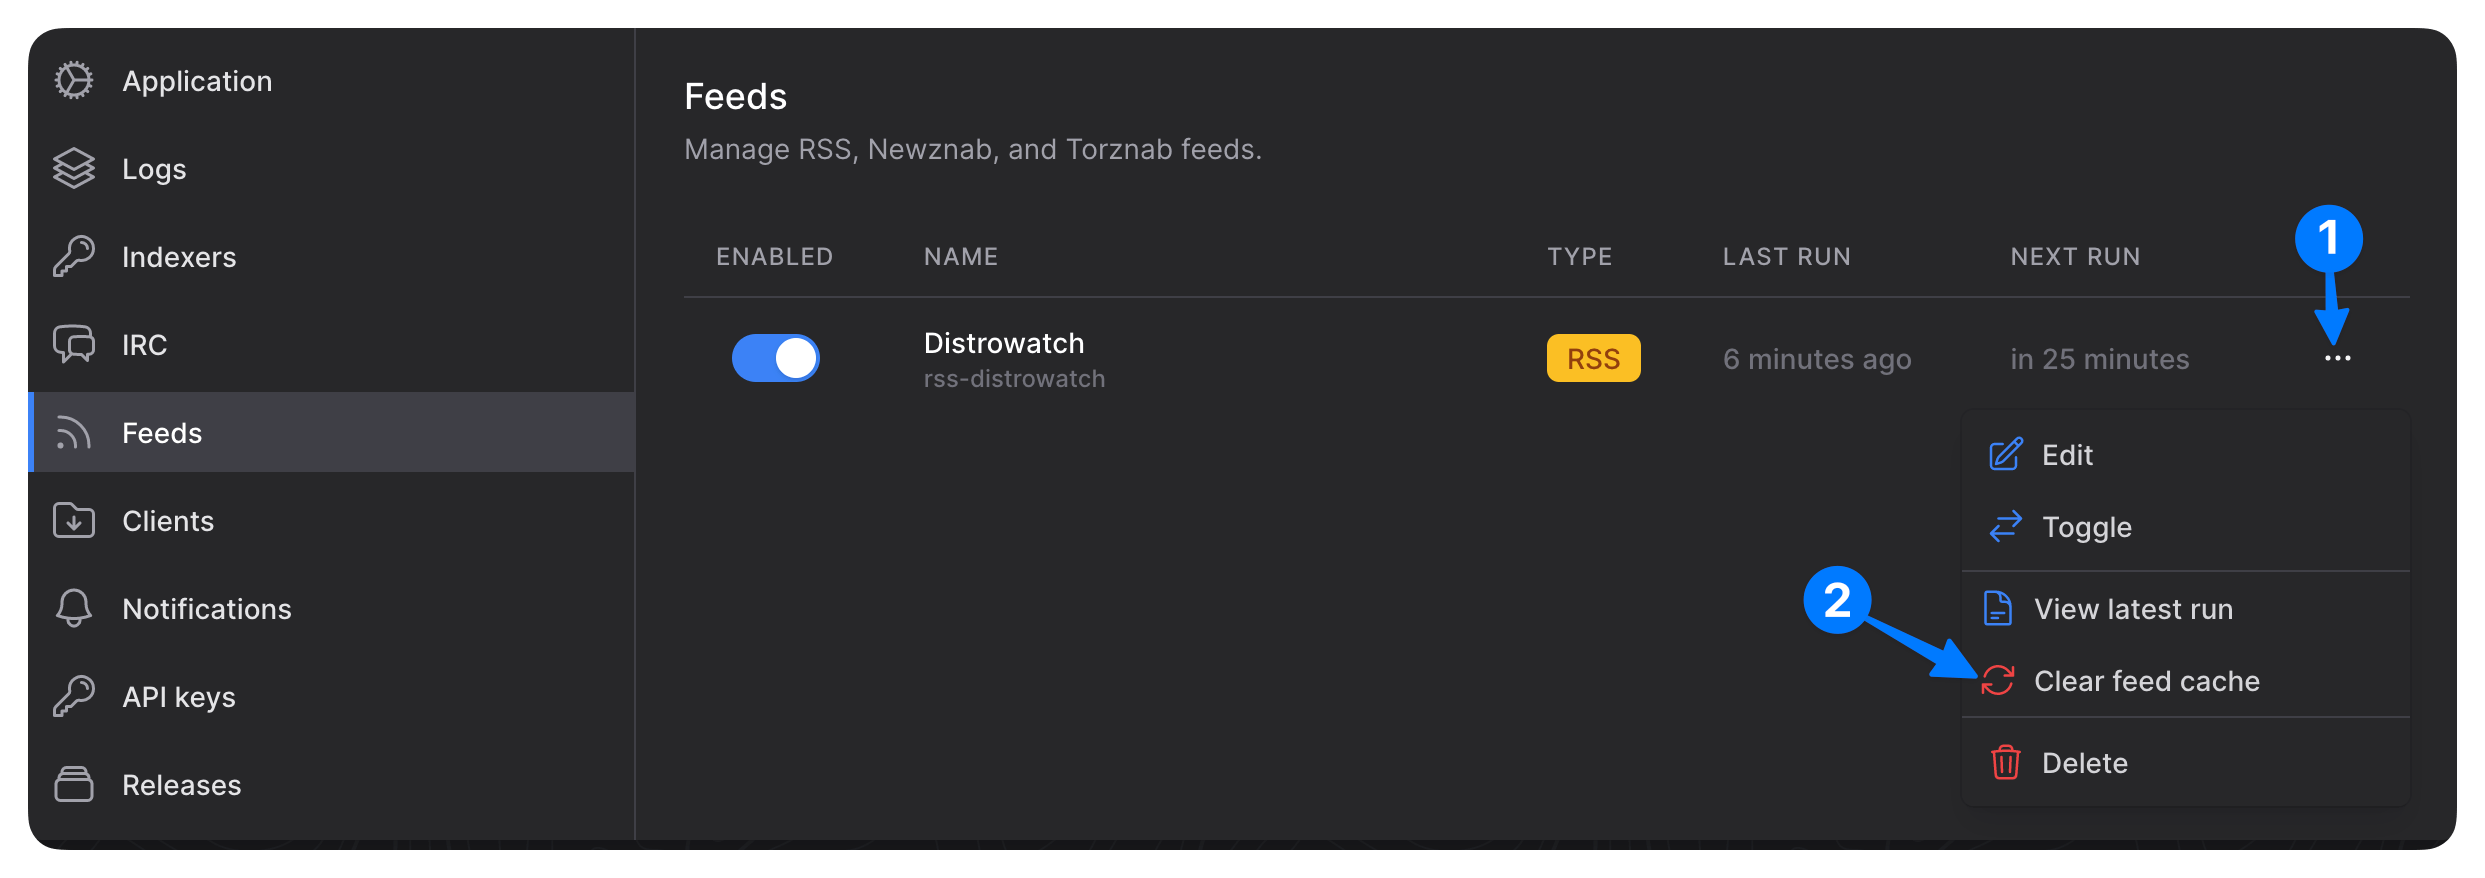
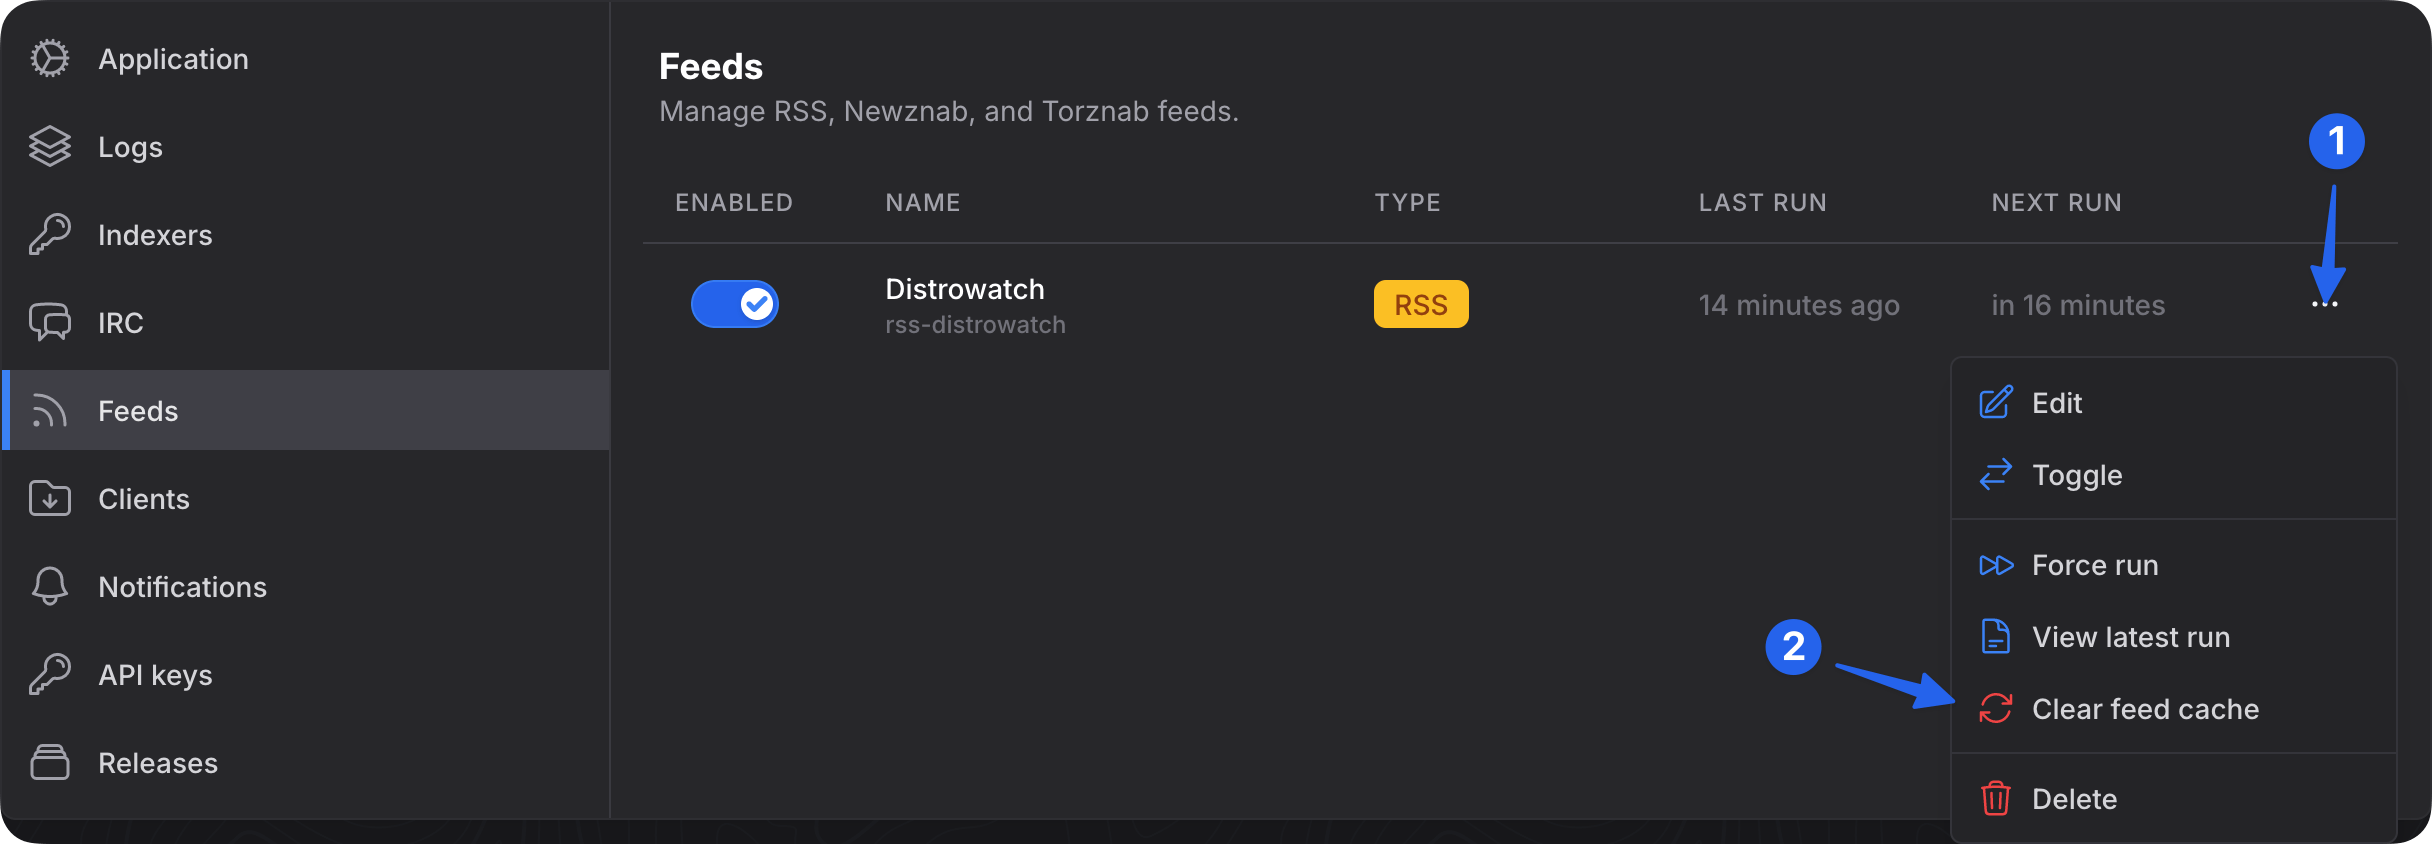
docs: added new stuff from v1.34 (#148)

diff --git a/docs/installation/docker.md b/docs/installation/docker.md
@@ -55,14 +55,34 @@ services:
       - 7474:7474
 ```
 
-#### Environment variables
+### Environment variables
 
 We support the following environment variables to override the config file:
 
-```yaml
-environment:
-  - AUTOBRR__PORT=7474
-  - AUTOBRR__HOST=0.0.0.0
+```yaml title="docker-compose.yml"
+version: "3.7"
+
+services:
+  autobrr:
+    environment:
+      - AUTOBRR__HOST=string
+      - AUTOBRR__PORT=string
+      - AUTOBRR__BASE_URL=string
+      - AUTOBRR__LOG_LEVEL=string
+      - AUTOBRR__LOG_PATH=string
+      - AUTOBRR__LOG_MAX_SIZE=string/int without MB
+      - AUTOBRR__LOG_MAX_BACKUPS=string/int
+      - AUTOBRR__SESSION_SECRET=string
+      - AUTOBRR__CUSTOM_DEFINITIONS=string
+      - AUTOBRR__CHECK_FOR_UPDATES=bool
+      - AUTOBRR__DATABASE_TYPE=sqlite/postgres
+      - AUTOBRR__POSTGRES_HOST=string
+      - AUTOBRR__POSTGRES_PORT=string
+      - AUTOBRR__POSTGRES_DATABASE=string
+      - AUTOBRR__POSTGRES_USER=string
+      - AUTOBRR__POSTGRES_PASS=string
+      - AUTOBRR__POSTGRES_SSLMODE=string
+      - AUTOBRR__POSTGRES_EXTRA_PARAMS=string
 ```
 
 ### Manually configure autobrr (optional) {#manually-configure-autobrr}

diff --git a/docs/configuration/feeds.md b/docs/configuration/feeds.md
@@ -8,7 +8,7 @@ keywords:
 ---
 
 Some indexers does not have an IRC announce channel.
-Luckily, most of them have RSS support.  
+Luckily, most of them have RSS support.
 You will treat Torznab/Newznab and RSS feeds as regular indexers when setting up your filters.
 
 ## Torznab / Newznab
@@ -58,4 +58,14 @@ Head to **Settings** -> **Feeds** and click the three dots for the feed you want
 
 :::tip
 The cache is cleaned automatically every 30 days.
+:::
+
+## Force run feed
+
+The Force run feed option allows you to manually trigger a feed refresh, providing you with the most up-to-date data outside the regular feed schedule.
+
+![Force run feed](/img/force_run_feed.png)
+
+:::caution
+Be careful when using this feature and ensure that you adhere to the refresh interval rules defined by the indexers.
 :::

diff --git a/docs/installation/linux.md b/docs/installation/linux.md
@@ -24,7 +24,6 @@ pagination_next: configuration/indexers
 
 import { FaDocker } from 'react-icons/fa';
 import { FaWindows } from 'react-icons/fa';
-import { SiPostgresql } from 'react-icons/si';
 
 Welcome to the autobrr installation walkthrough!
 Follow these steps and we will have you up and running in no time.

diff --git a/docs/installation/supplementary/postgresql.md b/docs/installation/supplementary/postgresql.md
@@ -23,6 +23,8 @@ postgresPort = 5432
 postgresDatabase = "autobrr"
 postgresUser = "autobrr"
 postgresPass = "s0meth!ng-l0ng-4nd-s3cure"
+postgresSSLMode = "disable"
+postgresExtraParams = ""
 ```
 
 :::info
